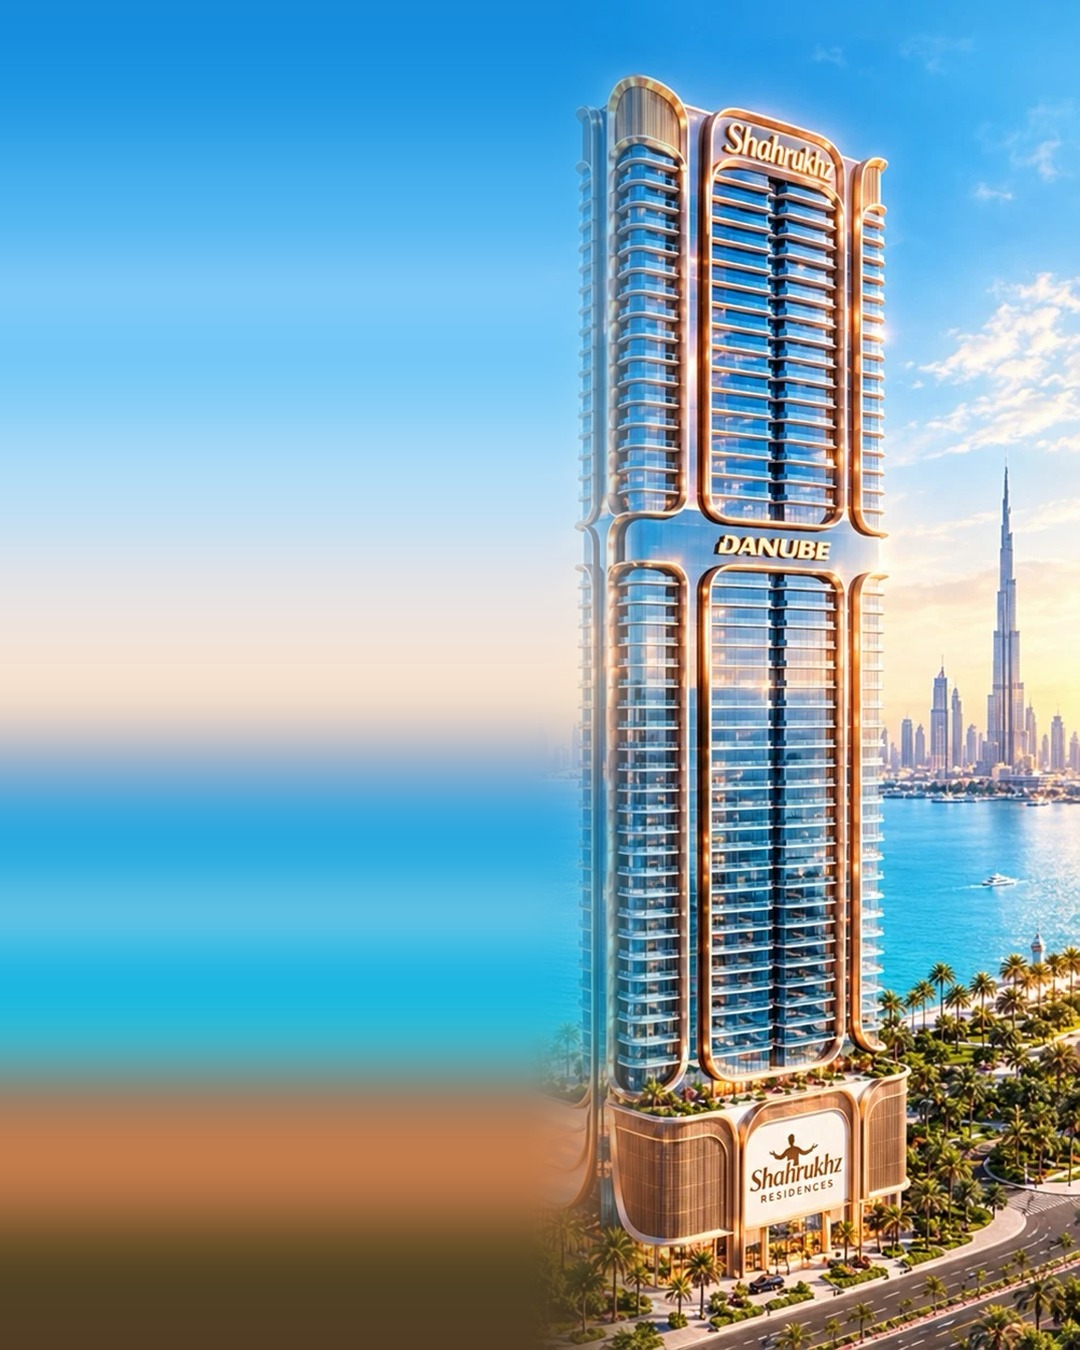
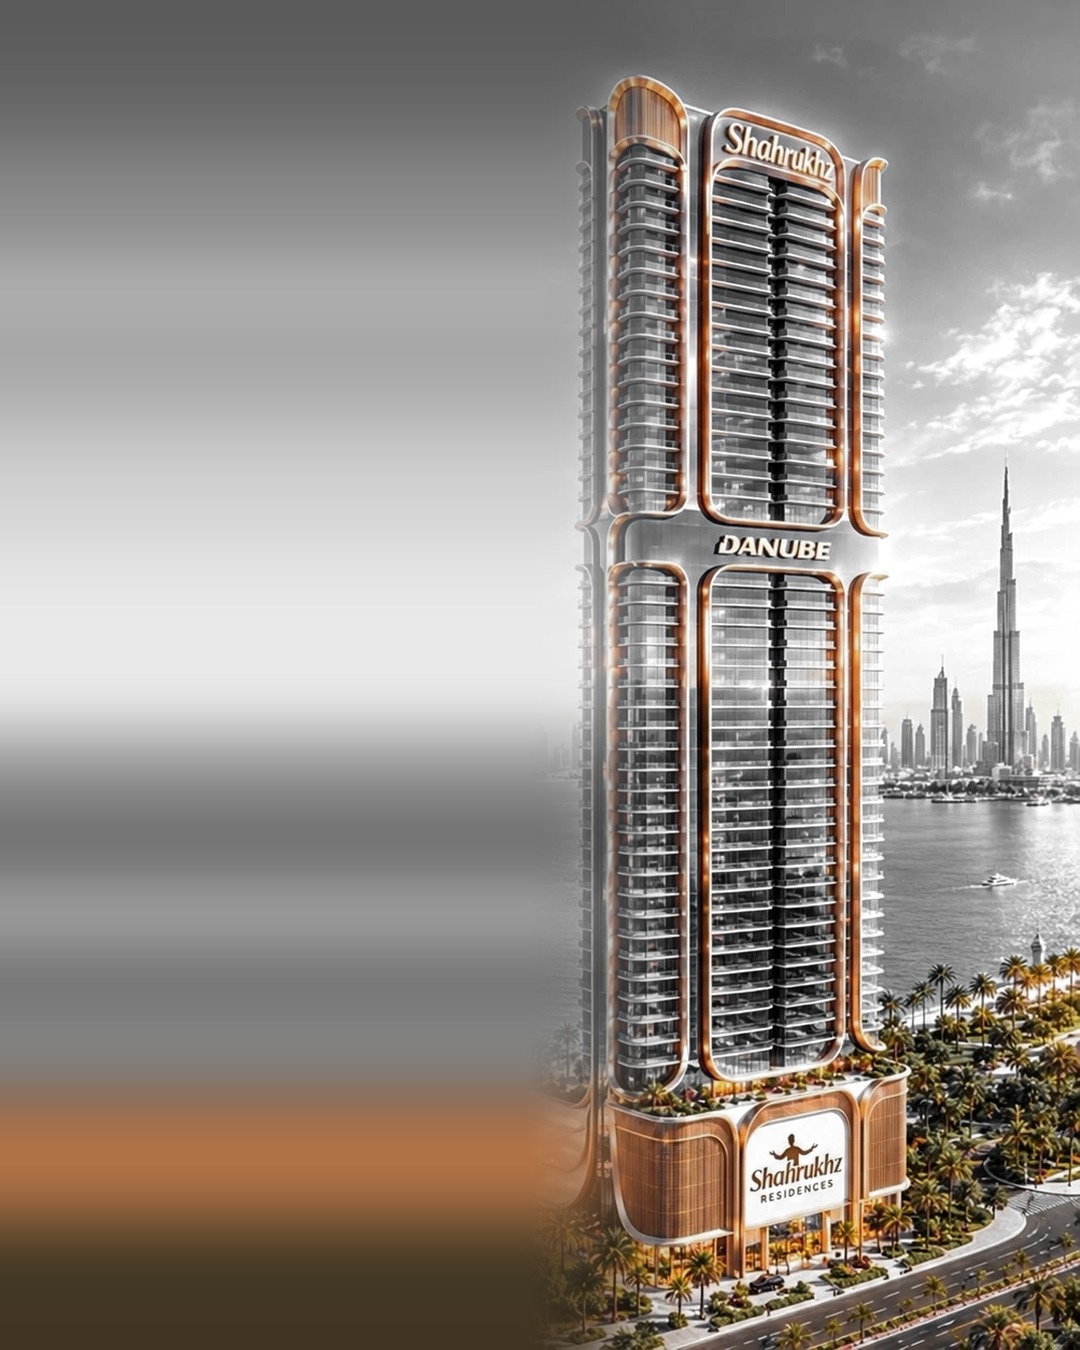
Recolor ad set to black, white and gold
Claude-Session: https://claude.ai/code/session_01F5m4QrWoRT9nyz1AhM5i12

diff --git a/ads/src/ad2_story.html b/ads/src/ad2_story.html
@@ -1,7 +1,7 @@
 <!doctype html><html><head><meta charset="utf-8">
 <link rel="stylesheet" href="fonts.css"><style>:root{--W:1080px;--H:1920px}
 :root{
-  --navy:#061c38; --navy2:#0a2b52; --sea:#1b7ec6;
+  --navy:#000; --navy2:#111;
   --g1:#f6e2a8; --g2:#d9aa4a; --g3:#9a6f1f;
   --gold:linear-gradient(135deg,#f6e2a8 0%,#d9aa4a 50%,#a77a24 100%);
 }
@@ -14,16 +14,16 @@ body{position:relative;font-family:'Montserrat',sans-serif;color:#fff;-webkit-fo
 .brand{position:absolute;display:flex;align-items:center;gap:14px;font-weight:700;letter-spacing:.34em;font-size:21px}
 .brand i{display:block;width:14px;height:14px;background:var(--gold);transform:rotate(45deg)}
 .eyebrow{font-weight:600;letter-spacing:.26em;font-size:20px;text-transform:uppercase;color:#f6e2a8}
-.cta{display:inline-flex;align-items:center;gap:16px;background:var(--gold);color:#07213f;font-weight:700;
+.cta{display:inline-flex;align-items:center;gap:16px;background:var(--gold);color:#0b0b0b;font-weight:700;
   letter-spacing:.14em;text-transform:uppercase;border-radius:999px;box-shadow:0 10px 30px rgba(0,0,0,.35)}
 .fine{font-size:16px;line-height:1.45;color:rgba(255,255,255,.82)}
-.glass{background:rgba(6,28,56,.58);backdrop-filter:blur(10px);-webkit-backdrop-filter:blur(10px);
+.glass{background:rgba(8,8,8,.58);backdrop-filter:blur(10px);-webkit-backdrop-filter:blur(10px);
   border:1.5px solid rgba(246,226,168,.55);border-radius:22px}
 .hair{height:1.5px;background:linear-gradient(90deg,rgba(246,226,168,.9),rgba(246,226,168,0))}
 .shadow{text-shadow:0 2px 18px rgba(3,20,45,.55)}
 </style></head><body>
 <img class="abs" src="../assets/bg_b_story.jpg" style="inset:0;width:1080px;height:1920px">
-<div class="abs" style="inset:0;background:linear-gradient(180deg,rgba(5,30,66,.55) 0%,rgba(5,30,66,0) 30%),linear-gradient(270deg,rgba(5,30,66,.62) 0%,rgba(5,30,66,.35) 50%,rgba(5,30,66,0) 78%),linear-gradient(0deg,rgba(4,20,43,.92) 0%,rgba(4,20,43,.7) 12%,rgba(4,20,43,0) 24%)"></div>
+<div class="abs" style="inset:0;background:linear-gradient(180deg,rgba(0,0,0,.55) 0%,rgba(0,0,0,0) 30%),linear-gradient(270deg,rgba(0,0,0,.62) 0%,rgba(0,0,0,.35) 50%,rgba(0,0,0,0) 78%),linear-gradient(0deg,rgba(0,0,0,.92) 0%,rgba(0,0,0,.7) 12%,rgba(0,0,0,0) 24%)"></div>
 <div class="brand shadow" style="left:60px;top:220px"><i></i>ZEE REAL ESTATE</div>
 <div class="abs eyebrow shadow" style="left:60px;top:300px;font-size:19px">Dubai Maritime City &middot; by Danube</div>
 <h1 class="abs serif shadow" style="left:60px;top:346px;width:960px;font-size:92px;line-height:1.05;font-weight:700">

diff --git a/ads/src/ad1_story.html b/ads/src/ad1_story.html
@@ -1,7 +1,7 @@
 <!doctype html><html><head><meta charset="utf-8">
 <link rel="stylesheet" href="fonts.css"><style>:root{--W:1080px;--H:1920px}
 :root{
-  --navy:#061c38; --navy2:#0a2b52; --sea:#1b7ec6;
+  --navy:#000; --navy2:#111;
   --g1:#f6e2a8; --g2:#d9aa4a; --g3:#9a6f1f;
   --gold:linear-gradient(135deg,#f6e2a8 0%,#d9aa4a 50%,#a77a24 100%);
 }
@@ -14,16 +14,16 @@ body{position:relative;font-family:'Montserrat',sans-serif;color:#fff;-webkit-fo
 .brand{position:absolute;display:flex;align-items:center;gap:14px;font-weight:700;letter-spacing:.34em;font-size:21px}
 .brand i{display:block;width:14px;height:14px;background:var(--gold);transform:rotate(45deg)}
 .eyebrow{font-weight:600;letter-spacing:.26em;font-size:20px;text-transform:uppercase;color:#f6e2a8}
-.cta{display:inline-flex;align-items:center;gap:16px;background:var(--gold);color:#07213f;font-weight:700;
+.cta{display:inline-flex;align-items:center;gap:16px;background:var(--gold);color:#0b0b0b;font-weight:700;
   letter-spacing:.14em;text-transform:uppercase;border-radius:999px;box-shadow:0 10px 30px rgba(0,0,0,.35)}
 .fine{font-size:16px;line-height:1.45;color:rgba(255,255,255,.82)}
-.glass{background:rgba(6,28,56,.58);backdrop-filter:blur(10px);-webkit-backdrop-filter:blur(10px);
+.glass{background:rgba(8,8,8,.58);backdrop-filter:blur(10px);-webkit-backdrop-filter:blur(10px);
   border:1.5px solid rgba(246,226,168,.55);border-radius:22px}
 .hair{height:1.5px;background:linear-gradient(90deg,rgba(246,226,168,.9),rgba(246,226,168,0))}
 .shadow{text-shadow:0 2px 18px rgba(3,20,45,.55)}
 </style></head><body>
 <img class="abs" src="../assets/bg_a_story.jpg" style="inset:0;width:1080px;height:1920px">
-<div class="abs" style="inset:0;background:linear-gradient(180deg,rgba(5,30,66,.55) 0%,rgba(5,30,66,0) 32%),linear-gradient(90deg,rgba(5,30,66,.72) 0%,rgba(5,30,66,.45) 40%,rgba(5,30,66,0) 62%)"></div>
+<div class="abs" style="inset:0;background:linear-gradient(180deg,rgba(0,0,0,.55) 0%,rgba(0,0,0,0) 32%),linear-gradient(90deg,rgba(0,0,0,.72) 0%,rgba(0,0,0,.45) 40%,rgba(0,0,0,0) 62%)"></div>
 <div class="brand shadow" style="left:60px;top:220px"><i></i>ZEE REAL ESTATE</div>
 <div class="abs eyebrow shadow" style="left:60px;top:300px">Shahrukhz Residences &middot; by Danube</div>
 <h1 class="abs serif shadow" style="left:60px;top:346px;width:960px;font-size:88px;line-height:1.05;font-weight:700">

diff --git a/ads/src/ad2_post.html b/ads/src/ad2_post.html
@@ -1,7 +1,7 @@
 <!doctype html><html><head><meta charset="utf-8">
 <link rel="stylesheet" href="fonts.css"><style>:root{--W:1080px;--H:1350px}
 :root{
-  --navy:#061c38; --navy2:#0a2b52; --sea:#1b7ec6;
+  --navy:#000; --navy2:#111;
   --g1:#f6e2a8; --g2:#d9aa4a; --g3:#9a6f1f;
   --gold:linear-gradient(135deg,#f6e2a8 0%,#d9aa4a 50%,#a77a24 100%);
 }
@@ -14,16 +14,16 @@ body{position:relative;font-family:'Montserrat',sans-serif;color:#fff;-webkit-fo
 .brand{position:absolute;display:flex;align-items:center;gap:14px;font-weight:700;letter-spacing:.34em;font-size:21px}
 .brand i{display:block;width:14px;height:14px;background:var(--gold);transform:rotate(45deg)}
 .eyebrow{font-weight:600;letter-spacing:.26em;font-size:20px;text-transform:uppercase;color:#f6e2a8}
-.cta{display:inline-flex;align-items:center;gap:16px;background:var(--gold);color:#07213f;font-weight:700;
+.cta{display:inline-flex;align-items:center;gap:16px;background:var(--gold);color:#0b0b0b;font-weight:700;
   letter-spacing:.14em;text-transform:uppercase;border-radius:999px;box-shadow:0 10px 30px rgba(0,0,0,.35)}
 .fine{font-size:16px;line-height:1.45;color:rgba(255,255,255,.82)}
-.glass{background:rgba(6,28,56,.58);backdrop-filter:blur(10px);-webkit-backdrop-filter:blur(10px);
+.glass{background:rgba(8,8,8,.58);backdrop-filter:blur(10px);-webkit-backdrop-filter:blur(10px);
   border:1.5px solid rgba(246,226,168,.55);border-radius:22px}
 .hair{height:1.5px;background:linear-gradient(90deg,rgba(246,226,168,.9),rgba(246,226,168,0))}
 .shadow{text-shadow:0 2px 18px rgba(3,20,45,.55)}
 </style></head><body>
 <img class="abs" src="../assets/bg_b_post.jpg" style="inset:0;width:1080px;height:1350px">
-<div class="abs" style="inset:0;background:linear-gradient(270deg,rgba(5,30,66,.6) 0%,rgba(5,30,66,.35) 55%,rgba(5,30,66,0) 80%)"></div>
+<div class="abs" style="inset:0;background:linear-gradient(270deg,rgba(0,0,0,.6) 0%,rgba(0,0,0,.35) 55%,rgba(0,0,0,0) 80%)"></div>
 <div class="brand shadow" style="left:480px;top:56px"><i></i>ZEE REAL ESTATE</div>
 <div class="abs eyebrow shadow" style="left:480px;top:156px;font-size:17px;letter-spacing:.2em">Dubai Maritime City &middot; by Danube</div>
 <h1 class="abs serif shadow" style="left:480px;top:196px;width:560px;font-size:68px;line-height:1.08;font-weight:700">

diff --git a/ads/src/ad1_post.html b/ads/src/ad1_post.html
@@ -1,7 +1,7 @@
 <!doctype html><html><head><meta charset="utf-8">
 <link rel="stylesheet" href="fonts.css"><style>:root{--W:1080px;--H:1350px}
 :root{
-  --navy:#061c38; --navy2:#0a2b52; --sea:#1b7ec6;
+  --navy:#000; --navy2:#111;
   --g1:#f6e2a8; --g2:#d9aa4a; --g3:#9a6f1f;
   --gold:linear-gradient(135deg,#f6e2a8 0%,#d9aa4a 50%,#a77a24 100%);
 }
@@ -14,16 +14,16 @@ body{position:relative;font-family:'Montserrat',sans-serif;color:#fff;-webkit-fo
 .brand{position:absolute;display:flex;align-items:center;gap:14px;font-weight:700;letter-spacing:.34em;font-size:21px}
 .brand i{display:block;width:14px;height:14px;background:var(--gold);transform:rotate(45deg)}
 .eyebrow{font-weight:600;letter-spacing:.26em;font-size:20px;text-transform:uppercase;color:#f6e2a8}
-.cta{display:inline-flex;align-items:center;gap:16px;background:var(--gold);color:#07213f;font-weight:700;
+.cta{display:inline-flex;align-items:center;gap:16px;background:var(--gold);color:#0b0b0b;font-weight:700;
   letter-spacing:.14em;text-transform:uppercase;border-radius:999px;box-shadow:0 10px 30px rgba(0,0,0,.35)}
 .fine{font-size:16px;line-height:1.45;color:rgba(255,255,255,.82)}
-.glass{background:rgba(6,28,56,.58);backdrop-filter:blur(10px);-webkit-backdrop-filter:blur(10px);
+.glass{background:rgba(8,8,8,.58);backdrop-filter:blur(10px);-webkit-backdrop-filter:blur(10px);
   border:1.5px solid rgba(246,226,168,.55);border-radius:22px}
 .hair{height:1.5px;background:linear-gradient(90deg,rgba(246,226,168,.9),rgba(246,226,168,0))}
 .shadow{text-shadow:0 2px 18px rgba(3,20,45,.55)}
 </style></head><body>
 <img class="abs" src="../assets/bg_a_post.jpg" style="inset:0;width:1080px;height:1350px">
-<div class="abs" style="inset:0;background:linear-gradient(90deg,rgba(5,30,66,.78) 0%,rgba(5,30,66,.55) 42%,rgba(5,30,66,0) 66%)"></div>
+<div class="abs" style="inset:0;background:linear-gradient(90deg,rgba(0,0,0,.78) 0%,rgba(0,0,0,.55) 42%,rgba(0,0,0,0) 66%)"></div>
 <div class="brand shadow" style="left:60px;top:56px"><i></i>ZEE REAL ESTATE</div>
 <div class="abs eyebrow shadow" style="left:60px;top:158px;font-size:17px;letter-spacing:.2em">Shahrukhz Residences &middot; by Danube</div>
 <h1 class="abs serif shadow" style="left:60px;top:204px;width:560px;font-size:76px;line-height:1.06;font-weight:700">

diff --git a/ads/src/ad3_post.html b/ads/src/ad3_post.html
@@ -1,7 +1,7 @@
 <!doctype html><html><head><meta charset="utf-8">
 <link rel="stylesheet" href="fonts.css"><style>:root{--W:1080px;--H:1350px}
 :root{
-  --navy:#061c38; --navy2:#0a2b52; --sea:#1b7ec6;
+  --navy:#000; --navy2:#111;
   --g1:#f6e2a8; --g2:#d9aa4a; --g3:#9a6f1f;
   --gold:linear-gradient(135deg,#f6e2a8 0%,#d9aa4a 50%,#a77a24 100%);
 }
@@ -14,15 +14,15 @@ body{position:relative;font-family:'Montserrat',sans-serif;color:#fff;-webkit-fo
 .brand{position:absolute;display:flex;align-items:center;gap:14px;font-weight:700;letter-spacing:.34em;font-size:21px}
 .brand i{display:block;width:14px;height:14px;background:var(--gold);transform:rotate(45deg)}
 .eyebrow{font-weight:600;letter-spacing:.26em;font-size:20px;text-transform:uppercase;color:#f6e2a8}
-.cta{display:inline-flex;align-items:center;gap:16px;background:var(--gold);color:#07213f;font-weight:700;
+.cta{display:inline-flex;align-items:center;gap:16px;background:var(--gold);color:#0b0b0b;font-weight:700;
   letter-spacing:.14em;text-transform:uppercase;border-radius:999px;box-shadow:0 10px 30px rgba(0,0,0,.35)}
 .fine{font-size:16px;line-height:1.45;color:rgba(255,255,255,.82)}
-.glass{background:rgba(6,28,56,.58);backdrop-filter:blur(10px);-webkit-backdrop-filter:blur(10px);
+.glass{background:rgba(8,8,8,.58);backdrop-filter:blur(10px);-webkit-backdrop-filter:blur(10px);
   border:1.5px solid rgba(246,226,168,.55);border-radius:22px}
 .hair{height:1.5px;background:linear-gradient(90deg,rgba(246,226,168,.9),rgba(246,226,168,0))}
 .shadow{text-shadow:0 2px 18px rgba(3,20,45,.55)}
 
-body{background:radial-gradient(120% 80% at 80% 0%,#12417a 0%,#082448 45%,#04142b 100%)}
+body{background:radial-gradient(120% 80% at 80% 0%,#2a2a2a 0%,#0e0e0e 50%,#000 100%)}
 .arch{position:absolute;overflow:hidden;border-radius:999px 999px 0 0;border:3px solid #d9aa4a;box-shadow:0 0 0 10px rgba(217,170,74,.12),0 30px 60px rgba(0,0,0,.45)}
 .arch img{width:100%;height:100%;object-fit:cover;object-position:50% 20%}
 </style></head><body>

diff --git a/ads/src/ad3_story.html b/ads/src/ad3_story.html
@@ -1,7 +1,7 @@
 <!doctype html><html><head><meta charset="utf-8">
 <link rel="stylesheet" href="fonts.css"><style>:root{--W:1080px;--H:1920px}
 :root{
-  --navy:#061c38; --navy2:#0a2b52; --sea:#1b7ec6;
+  --navy:#000; --navy2:#111;
   --g1:#f6e2a8; --g2:#d9aa4a; --g3:#9a6f1f;
   --gold:linear-gradient(135deg,#f6e2a8 0%,#d9aa4a 50%,#a77a24 100%);
 }
@@ -14,15 +14,15 @@ body{position:relative;font-family:'Montserrat',sans-serif;color:#fff;-webkit-fo
 .brand{position:absolute;display:flex;align-items:center;gap:14px;font-weight:700;letter-spacing:.34em;font-size:21px}
 .brand i{display:block;width:14px;height:14px;background:var(--gold);transform:rotate(45deg)}
 .eyebrow{font-weight:600;letter-spacing:.26em;font-size:20px;text-transform:uppercase;color:#f6e2a8}
-.cta{display:inline-flex;align-items:center;gap:16px;background:var(--gold);color:#07213f;font-weight:700;
+.cta{display:inline-flex;align-items:center;gap:16px;background:var(--gold);color:#0b0b0b;font-weight:700;
   letter-spacing:.14em;text-transform:uppercase;border-radius:999px;box-shadow:0 10px 30px rgba(0,0,0,.35)}
 .fine{font-size:16px;line-height:1.45;color:rgba(255,255,255,.82)}
-.glass{background:rgba(6,28,56,.58);backdrop-filter:blur(10px);-webkit-backdrop-filter:blur(10px);
+.glass{background:rgba(8,8,8,.58);backdrop-filter:blur(10px);-webkit-backdrop-filter:blur(10px);
   border:1.5px solid rgba(246,226,168,.55);border-radius:22px}
 .hair{height:1.5px;background:linear-gradient(90deg,rgba(246,226,168,.9),rgba(246,226,168,0))}
 .shadow{text-shadow:0 2px 18px rgba(3,20,45,.55)}
 
-body{background:radial-gradient(120% 70% at 80% 0%,#12417a 0%,#082448 45%,#04142b 100%)}
+body{background:radial-gradient(120% 70% at 80% 0%,#2a2a2a 0%,#0e0e0e 50%,#000 100%)}
 .arch{position:absolute;overflow:hidden;border-radius:999px 999px 0 0;border:3px solid #d9aa4a;box-shadow:0 0 0 10px rgba(217,170,74,.12),0 30px 60px rgba(0,0,0,.45)}
 .arch img{width:100%;height:100%;object-fit:cover;object-position:50% 20%}
 </style></head><body>

diff --git a/ads/build.py b/ads/build.py
@@ -27,13 +27,33 @@ STORY = (1080, 1920)
 
 
 # ---- backgrounds -----------------------------------------------------------
+def mono_gold(im):
+    """Black/white look: desaturate everything except warm (gold/copper) tones."""
+    import numpy as np
+    a = np.asarray(im.convert("RGB")).astype("float32") / 255.0
+    hsv = np.asarray(im.convert("HSV")).astype("float32") / 255.0
+    h = hsv[..., 0] * 360.0
+    # warm membership: 0-65deg and 340-360deg, soft edges
+    sat = hsv[..., 1]
+    w = np.clip((58 - h) / 18, 0, 1) * (h < 180) + np.clip((h - 335) / 15, 0, 1) * (h >= 180)
+    w = w * np.clip((sat - 0.22) / 0.25, 0, 1)          # ignore low-sat noise
+    w = np.asarray(Image.fromarray((np.clip(w, 0, 1) * 255).astype("uint8")).filter(ImageFilter.GaussianBlur(2.5))).astype("float32") / 255.0
+    w = w[..., None]
+    luma = (a * [0.299, 0.587, 0.114]).sum(-1, keepdims=True)
+    luma = np.clip(luma, 0, 1) ** 1.35 * 1.05          # deeper, contrastier blacks
+    gray = np.repeat(luma, 3, axis=-1)
+    warm = a * (0.92 + 0.0)                             # keep gold as-is
+    out = gray * (1 - w) + warm * w
+    return Image.fromarray((np.clip(out, 0, 1) * 255).astype("uint8"))
+
+
 def smooth(t):
     return t * t * (3 - 2 * t)
 
 
 def build_bg(hero_box, src, W, H, scale, side, name):
     """Place a cropped render on one side and extend the scene to fill W x H."""
-    hero = Image.open(ASSETS / src).convert("RGB").crop(hero_box)
+    hero = mono_gold(Image.open(ASSETS / src).convert("RGB").crop(hero_box))
     hw, hh = hero.size
     hero = hero.resize((round(hw * scale), round(hh * scale)), Image.LANCZOS)
     hw, hh = hero.size
@@ -79,7 +99,7 @@ def build_bg(hero_box, src, W, H, scale, side, name):
 
 
 def crop_asset(box, src, name, scale=1.0):
-    im = Image.open(ASSETS / src).convert("RGB").crop(box)
+    im = mono_gold(Image.open(ASSETS / src).convert("RGB").crop(box))
     if scale != 1.0:
         im = im.resize((round(im.width * scale), round(im.height * scale)), Image.LANCZOS)
     p = ASSETS / f"{name}.jpg"
@@ -90,7 +110,7 @@ def crop_asset(box, src, name, scale=1.0):
 # ---- shared HTML -----------------------------------------------------------
 CSS = """
 :root{
-  --navy:#061c38; --navy2:#0a2b52; --sea:#1b7ec6;
+  --navy:#000; --navy2:#111;
   --g1:#f6e2a8; --g2:#d9aa4a; --g3:#9a6f1f;
   --gold:linear-gradient(135deg,#f6e2a8 0%,#d9aa4a 50%,#a77a24 100%);
 }
@@ -103,10 +123,10 @@ body{position:relative;font-family:'Montserrat',sans-serif;color:#fff;-webkit-fo
 .brand{position:absolute;display:flex;align-items:center;gap:14px;font-weight:700;letter-spacing:.34em;font-size:21px}
 .brand i{display:block;width:14px;height:14px;background:var(--gold);transform:rotate(45deg)}
 .eyebrow{font-weight:600;letter-spacing:.26em;font-size:20px;text-transform:uppercase;color:#f6e2a8}
-.cta{display:inline-flex;align-items:center;gap:16px;background:var(--gold);color:#07213f;font-weight:700;
+.cta{display:inline-flex;align-items:center;gap:16px;background:var(--gold);color:#0b0b0b;font-weight:700;
   letter-spacing:.14em;text-transform:uppercase;border-radius:999px;box-shadow:0 10px 30px rgba(0,0,0,.35)}
 .fine{font-size:16px;line-height:1.45;color:rgba(255,255,255,.82)}
-.glass{background:rgba(6,28,56,.58);backdrop-filter:blur(10px);-webkit-backdrop-filter:blur(10px);
+.glass{background:rgba(8,8,8,.58);backdrop-filter:blur(10px);-webkit-backdrop-filter:blur(10px);
   border:1.5px solid rgba(246,226,168,.55);border-radius:22px}
 .hair{height:1.5px;background:linear-gradient(90deg,rgba(246,226,168,.9),rgba(246,226,168,0))}
 .shadow{text-shadow:0 2px 18px rgba(3,20,45,.55)}
@@ -131,7 +151,7 @@ def ad1_post():
     bg = build_bg((730, 0, 1254, 1254), "1.webp", *POST, 1350 / 1254, "right", "a_post")
     body = f"""
 <img class="abs" src="../assets/{bg}" style="inset:0;width:1080px;height:1350px">
-<div class="abs" style="inset:0;background:linear-gradient(90deg,rgba(5,30,66,.78) 0%,rgba(5,30,66,.55) 42%,rgba(5,30,66,0) 66%)"></div>
+<div class="abs" style="inset:0;background:linear-gradient(90deg,rgba(0,0,0,.78) 0%,rgba(0,0,0,.55) 42%,rgba(0,0,0,0) 66%)"></div>
 <div class="brand shadow" style="left:60px;top:56px"><i></i>{BRAND}</div>
 <div class="abs eyebrow shadow" style="left:60px;top:158px;font-size:17px;letter-spacing:.2em">{PROJECT} &middot; by Danube</div>
 <h1 class="abs serif shadow" style="left:60px;top:204px;width:560px;font-size:76px;line-height:1.06;font-weight:700">
@@ -157,7 +177,7 @@ def ad1_story():
     bg = build_bg((730, 0, 1254, 1254), "1.webp", *STORY, 1.08, "right", "a_story")
     body = f"""
 <img class="abs" src="../assets/{bg}" style="inset:0;width:1080px;height:1920px">
-<div class="abs" style="inset:0;background:linear-gradient(180deg,rgba(5,30,66,.55) 0%,rgba(5,30,66,0) 32%),linear-gradient(90deg,rgba(5,30,66,.72) 0%,rgba(5,30,66,.45) 40%,rgba(5,30,66,0) 62%)"></div>
+<div class="abs" style="inset:0;background:linear-gradient(180deg,rgba(0,0,0,.55) 0%,rgba(0,0,0,0) 32%),linear-gradient(90deg,rgba(0,0,0,.72) 0%,rgba(0,0,0,.45) 40%,rgba(0,0,0,0) 62%)"></div>
 <div class="brand shadow" style="left:60px;top:220px"><i></i>{BRAND}</div>
 <div class="abs eyebrow shadow" style="left:60px;top:300px">{PROJECT} &middot; by Danube</div>
 <h1 class="abs serif shadow" style="left:60px;top:346px;width:960px;font-size:88px;line-height:1.05;font-weight:700">
@@ -193,7 +213,7 @@ def ad2_post():
     )
     body = f"""
 <img class="abs" src="../assets/{bg}" style="inset:0;width:1080px;height:1350px">
-<div class="abs" style="inset:0;background:linear-gradient(270deg,rgba(5,30,66,.6) 0%,rgba(5,30,66,.35) 55%,rgba(5,30,66,0) 80%)"></div>
+<div class="abs" style="inset:0;background:linear-gradient(270deg,rgba(0,0,0,.6) 0%,rgba(0,0,0,.35) 55%,rgba(0,0,0,0) 80%)"></div>
 <div class="brand shadow" style="left:480px;top:56px"><i></i>{BRAND}</div>
 <div class="abs eyebrow shadow" style="left:480px;top:156px;font-size:17px;letter-spacing:.2em">Dubai Maritime City &middot; by Danube</div>
 <h1 class="abs serif shadow" style="left:480px;top:196px;width:560px;font-size:68px;line-height:1.08;font-weight:700">
@@ -224,7 +244,7 @@ def ad2_story():
     )
     body = f"""
 <img class="abs" src="../assets/{bg}" style="inset:0;width:1080px;height:1920px">
-<div class="abs" style="inset:0;background:linear-gradient(180deg,rgba(5,30,66,.55) 0%,rgba(5,30,66,0) 30%),linear-gradient(270deg,rgba(5,30,66,.62) 0%,rgba(5,30,66,.35) 50%,rgba(5,30,66,0) 78%),linear-gradient(0deg,rgba(4,20,43,.92) 0%,rgba(4,20,43,.7) 12%,rgba(4,20,43,0) 24%)"></div>
+<div class="abs" style="inset:0;background:linear-gradient(180deg,rgba(0,0,0,.55) 0%,rgba(0,0,0,0) 30%),linear-gradient(270deg,rgba(0,0,0,.62) 0%,rgba(0,0,0,.35) 50%,rgba(0,0,0,0) 78%),linear-gradient(0deg,rgba(0,0,0,.92) 0%,rgba(0,0,0,.7) 12%,rgba(0,0,0,0) 24%)"></div>
 <div class="brand shadow" style="left:60px;top:220px"><i></i>{BRAND}</div>
 <div class="abs eyebrow shadow" style="left:60px;top:300px;font-size:19px">Dubai Maritime City &middot; by Danube</div>
 <h1 class="abs serif shadow" style="left:60px;top:346px;width:960px;font-size:92px;line-height:1.05;font-weight:700">
@@ -261,7 +281,7 @@ def ad3_post():
         for a, b in FACTS
     )
     css = """
-body{background:radial-gradient(120% 80% at 80% 0%,#12417a 0%,#082448 45%,#04142b 100%)}
+body{background:radial-gradient(120% 80% at 80% 0%,#2a2a2a 0%,#0e0e0e 50%,#000 100%)}
 .arch{position:absolute;overflow:hidden;border-radius:999px 999px 0 0;border:3px solid #d9aa4a;box-shadow:0 0 0 10px rgba(217,170,74,.12),0 30px 60px rgba(0,0,0,.45)}
 .arch img{width:100%;height:100%;object-fit:cover;object-position:50% 20%}
 """
@@ -289,7 +309,7 @@ def ad3_story():
         for a, b in FACTS
     )
     css = """
-body{background:radial-gradient(120% 70% at 80% 0%,#12417a 0%,#082448 45%,#04142b 100%)}
+body{background:radial-gradient(120% 70% at 80% 0%,#2a2a2a 0%,#0e0e0e 50%,#000 100%)}
 .arch{position:absolute;overflow:hidden;border-radius:999px 999px 0 0;border:3px solid #d9aa4a;box-shadow:0 0 0 10px rgba(217,170,74,.12),0 30px 60px rgba(0,0,0,.45)}
 .arch img{width:100%;height:100%;object-fit:cover;object-position:50% 20%}
 """
